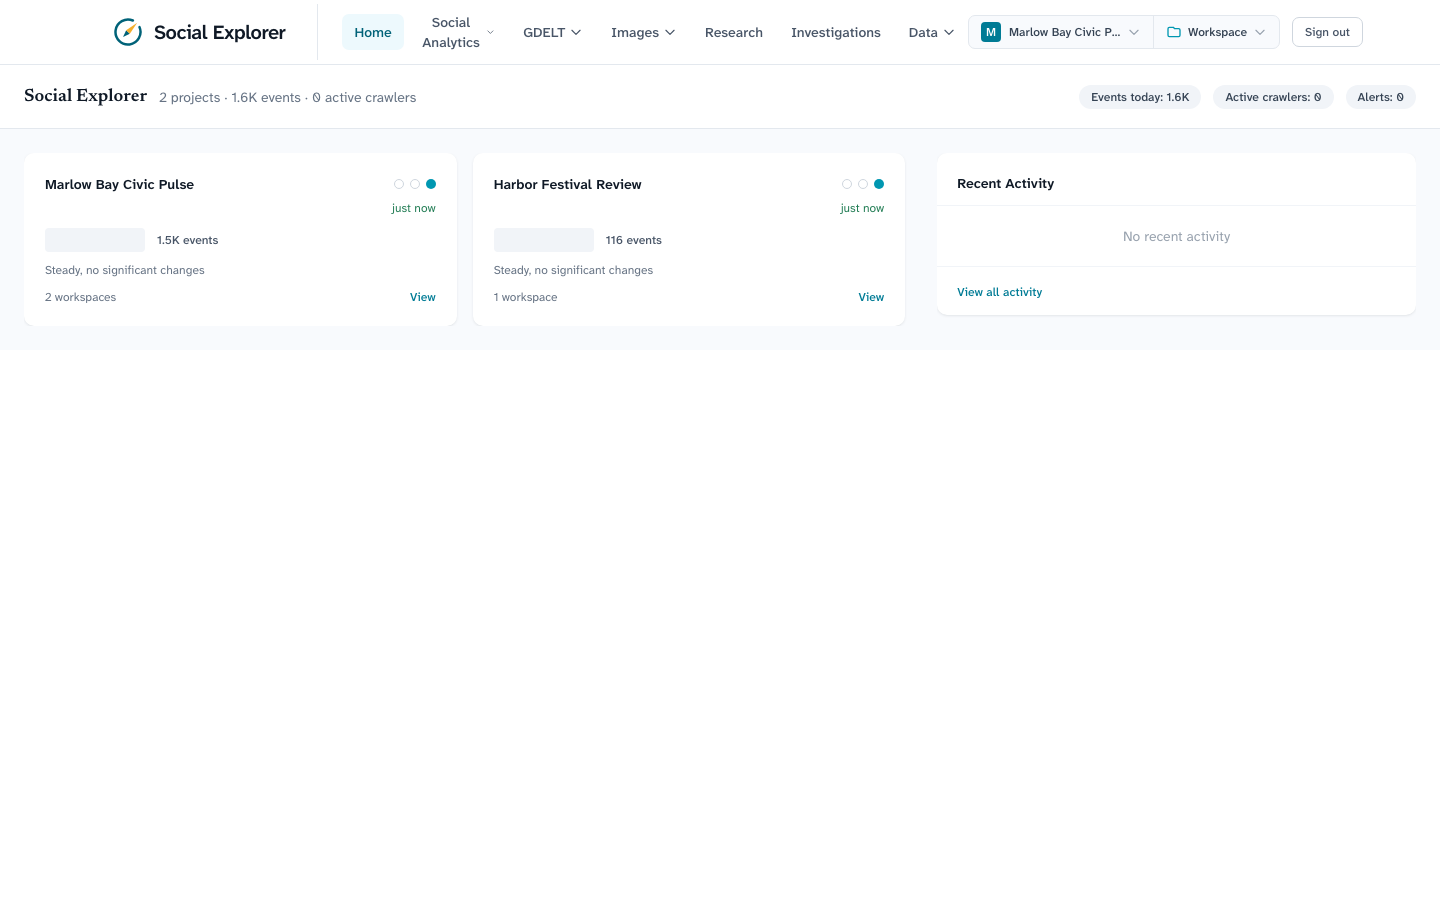
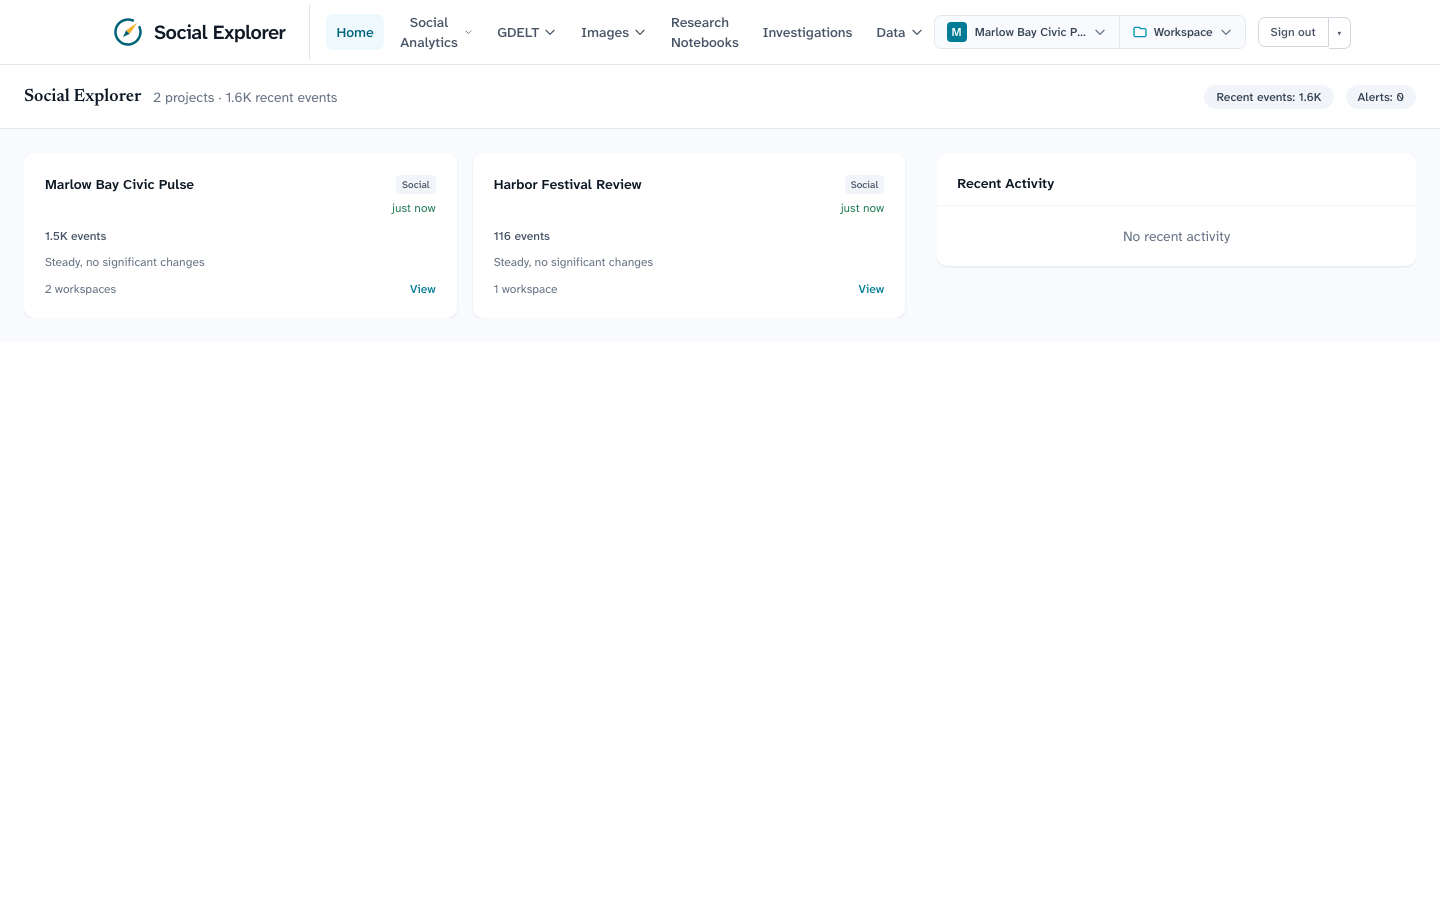
docs: recapture every screenshot and bring the tutorials up to the current UI
The screenshot capture spec had gone stale after the UX audit (no platform picker on
new projects, source tabs, a workspace confirmation banner, workflow steps that must
be configured before Publish). It now passes end to end. The tutorials no longer
describe the removed data-sources step, the 0-records counters or the dead
Create Investigation button, and the workflow tutorial gains a set-up step.

diff --git a/ex-accell-ui/docs-screenshots/tutorials.spec.ts b/ex-accell-ui/docs-screenshots/tutorials.spec.ts
@@ -62,8 +62,6 @@ test('tutorial walkthrough', async ({ page }) => {
     await shot(page, 'new-project', true);
     await page.fill('#project-name', PROJECT_NAME);
     await page.fill('#project-description', 'Following the first-project tutorial');
-    await page.getByText('Telegram', { exact: true }).click();
-    await page.getByText('YouTube', { exact: true }).click();
     await page.getByRole('button', { name: 'Create Project' }).click();
     await page.waitForURL(/\/projects\/\d+/);
     created.project = page.url().match(/\/projects\/(\d+)/)![1];
@@ -83,7 +81,7 @@ test('tutorial walkthrough', async ({ page }) => {
     await shot(page, 'workspace-created');
 
     // --- Tutorial: dashboards scoped to the workspace ---
-    await page.getByText('Telegram and YouTube').first().click();
+    await page.getByRole('heading', { name: 'Telegram and YouTube' }).click();
     await page.waitForURL(/\/workspaces\/\d+/);
     const workspaceId = page.url().match(/\/workspaces\/(\d+)/)![1];
     await page.goto(`/text-analytics/sentiment-analysis?workspace=${workspaceId}`, { waitUntil: 'networkidle' });
@@ -109,7 +107,7 @@ test('tutorial walkthrough', async ({ page }) => {
     created.investigation = page.url().match(/\/investigations\/(\d+)/)![1];
     await page.waitForLoadState('networkidle');
     await expect(page.getByText(INVESTIGATION_NAME, { exact: true })).toBeVisible();
-    await expect(page.getByRole('button', { name: /social\s*[1-9]/i })).toBeVisible(); // matching posts were found
+    await expect(page.getByRole('tab', { name: /social\s*[1-9]/i })).toBeVisible(); // matching posts were found
     await shot(page, 'investigation-workbench');
 
     // --- Tutorial: build and publish a workflow ---
@@ -122,6 +120,14 @@ test('tutorial walkthrough', async ({ page }) => {
     await ports.nth(1).click();
     await expect(page.getByText('1 connections')).toBeVisible();
     await shot(page, 'workflow-connected');
+
+    // Publish stays disabled until every step has the settings it cannot run without
+    await page.getByRole('button', { name: 'Workflow step: Dataset Input' }).click();
+    await page.locator('select').filter({ hasText: 'Select dataset...' }).selectOption({ index: 1 });
+    await page.getByRole('button', { name: 'Workflow step: Sentiment Analysis' }).click();
+    await page.getByPlaceholder('text column name').fill('text');
+    await expect(page.getByText('needs setup')).toHaveCount(0);
+    await shot(page, 'workflow-configured');
 
     await page.evaluate(() => window.scrollTo(0, 0));
     await page.getByRole('button', { name: 'Publish' }).click();

diff --git a/docs-site/tutorials/first-project.md b/docs-site/tutorials/first-project.md
@@ -13,10 +13,11 @@ Open **Projects** in the navigation and choose **New Project**, or go to `/proje
 
 1. Give it a **name** (required, and unique) and an optional description.
 2. Pick a **project type**. It labels the project; it does not change what the app does.
-3. Tick the **data sources** you *plan* to use. At least one is required. This records your intent;
-   it does not connect anything (the project page will still say "Sources: 0").
-4. Optionally add team members by email.
-5. Choose **Create Project**.
+3. Optionally add team members by email. Only they (and administrators) can then see the project and its
+   workspaces (see [Authentication and roles](/guide/authentication)).
+4. Choose **Create Project**.
+
+Where the data comes from is not chosen here: you link datasets to a workspace after the project exists.
 
 You land on the project page, which is empty until you add a workspace.
 
@@ -35,12 +36,8 @@ Choose **+ New Workspace**.
 
 ![The project page listing the new workspace](/screenshots/tutorials/workspace-created.png)
 
-::: info Why the card still says "0 records"
-The records and sources counters on the project and workspace pages count data sources added through
-*Data Capture*. Datasets you link here do their work somewhere else: they decide which posts the
-dashboards show. The next step proves it. (Making these counters include linked datasets is tracked in
-[#102](https://github.com/spiculedata/social-explorer/issues/102).)
-:::
+The card and the project header now count the posts in the datasets you linked (here **921 records** from
+two data sources).
 
 If a dataset cannot be added, a notice under the workspaces heading says so and why. Administrators
 can add any dataset; other users need access to it (the demo datasets are public).

diff --git a/docs-site/tutorials/investigations.md b/docs-site/tutorials/investigations.md
@@ -21,10 +21,9 @@ Open **Investigations** in the navigation and choose **New Investigation**.
 4. Under **Data Sources**, untick the sources you have no data for. The demo data only has *Social Media*.
 5. Choose **Create**.
 
-::: info Use the Investigations page
-The workspace page also shows a *Create Investigation* button, but it does not do anything yet
-([#102](https://github.com/spiculedata/social-explorer/issues/102)). Always create investigations from
-**Investigations** in the navigation.
+::: tip Starting from a workspace
+A workspace's *Create Investigation* button opens this same page with the workspace already chosen, so
+the investigation belongs to it and follows its project's membership.
 :::
 
 ## 2. Read the workbench
@@ -35,7 +34,7 @@ The investigation opens full screen.
 
 - **Timeline** (top): one lane per source, GDELT, Radio and Social, with the volume of matching items
   per day, coloured by sentiment. Here the Social lane shows the spike in transit posts.
-- **Tabs** (middle): each source with its count of matches. It opens on the first tab that has results.
+- **Tabs** (middle): each source with its count of matches, for example *Social 139*. It opens on the first tab that has results.
   The **Social** tab lists each matching post with its platform, sentiment, engagement and date.
 - **Visualizations**: a set of "portals". With social data, **Sentiment** (trend, breakdown, by source)
   and **Volume** (attention, metrics, stacked) work. **Correlation**, **Topics**, **Geography** and

diff --git a/docs-site/tutorials/workflows.md b/docs-site/tutorials/workflows.md
@@ -23,7 +23,15 @@ filter rows), Feature Engineering (text preprocessing, feature extraction, date-
 ML & Analytics (sentiment analysis, topic modeling, clustering) and Data Output. Click a step to
 configure it; the search box above the library filters components.
 
-## 2. Publish
+## 2. Set up the steps
+
+**Publish** stays disabled while any step shows *needs setup*; hover it to see what is missing. Click
+**Dataset Input** and choose a dataset, then click **Sentiment Analysis** and enter the **text column**
+(here `text`). Both steps now read *configured*.
+
+![Both steps configured, with the Sentiment Analysis settings open](/screenshots/tutorials/workflow-configured.png)
+
+## 3. Publish
 
 Choose **Publish**.
 
@@ -33,12 +41,12 @@ Enter a **name** (required), an optional description, a **version** and any **ta
 the workflow to the database; its creator is recorded as you. Press **Publish Workflow** (or
 Ctrl+Enter).
 
-A browser dialog confirms that the workflow was published. It is then listed under **Data → Data
+A message confirms that the workflow was published. It is then listed under **Data → Data
 Management → Processing Workflows**, with its name, description and status.
 
 ![The published workflow in the Processing Workflows list](/screenshots/tutorials/workflow-published.png)
 
-## 3. Generate code, save and run
+## 4. Generate code, save and run
 
 - **Generate Code** shows the Python script the platform produces from your steps, which you can
   export.

diff --git a/docs-site/tutorials/troubleshooting.md b/docs-site/tutorials/troubleshooting.md
@@ -40,9 +40,15 @@ Stop it (`docker stop dapr_scheduler`) or leave `dapr-placement` out of the comp
 reason. Administrators can add any dataset; other users need access to it, and granting access is an
 administrator action. The demo datasets are public.
 
-**A workspace card says "0 records" although I linked datasets** ([#102](https://github.com/spiculedata/social-explorer/issues/102)). Those counters track data sources
-added through Data Capture. Linked datasets control what the dashboards show; the Workspace selector
-in the navigation shows their post count.
+**A workspace card says "0 records" although I linked datasets.** The count is the posts in the linked
+datasets, so it reads 0 when those datasets hold no posts yet, or when the link did not succeed (a notice
+under the workspaces heading says why). The Workspace selector in the navigation shows the same post count.
+
+**A project or workspace is missing for someone.** Projects that list members are visible only to those
+members, their creator and administrators. Add the person's email to the project's team members.
+
+**Publish is greyed out in the Workflow Builder.** A step still reads *needs setup*. Hover Publish to see which
+setting is missing, and see [Build and publish a workflow](/tutorials/workflows).
 
 ## Data Capture and workflows
 
